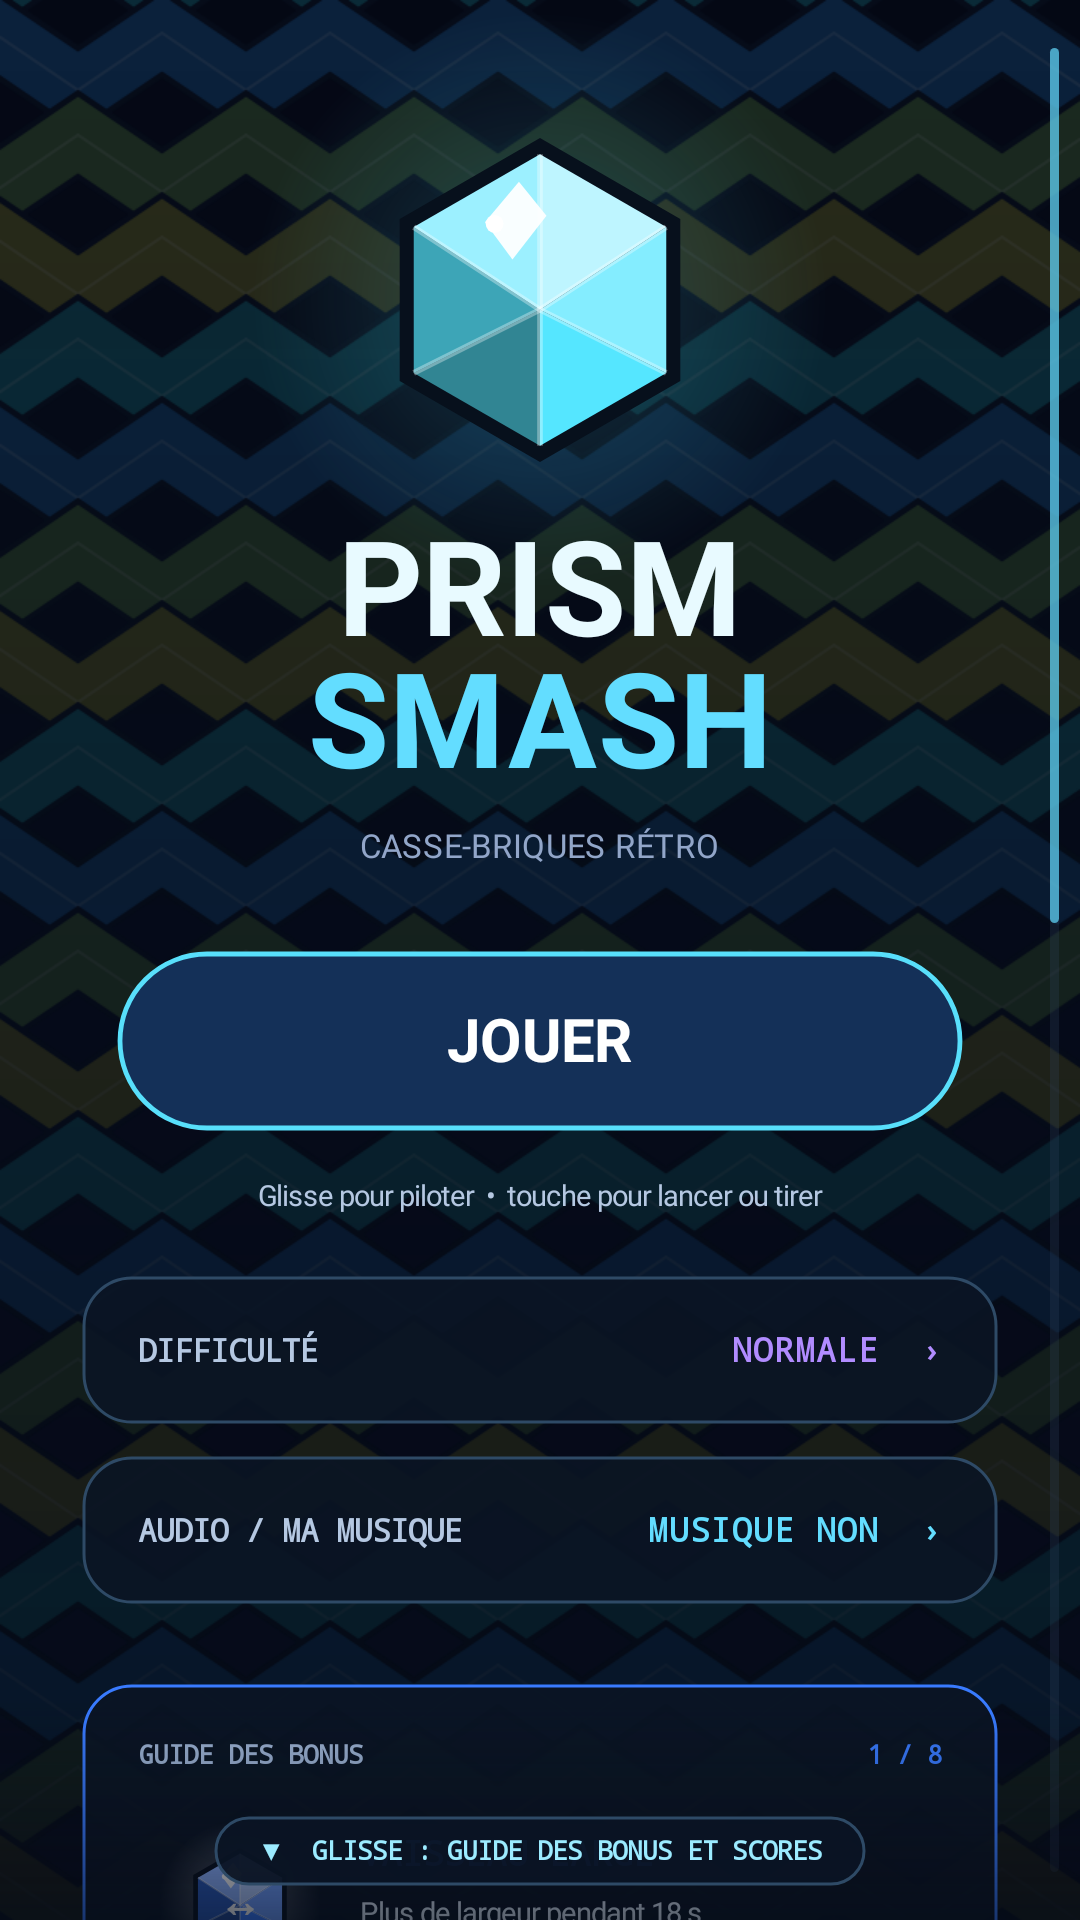
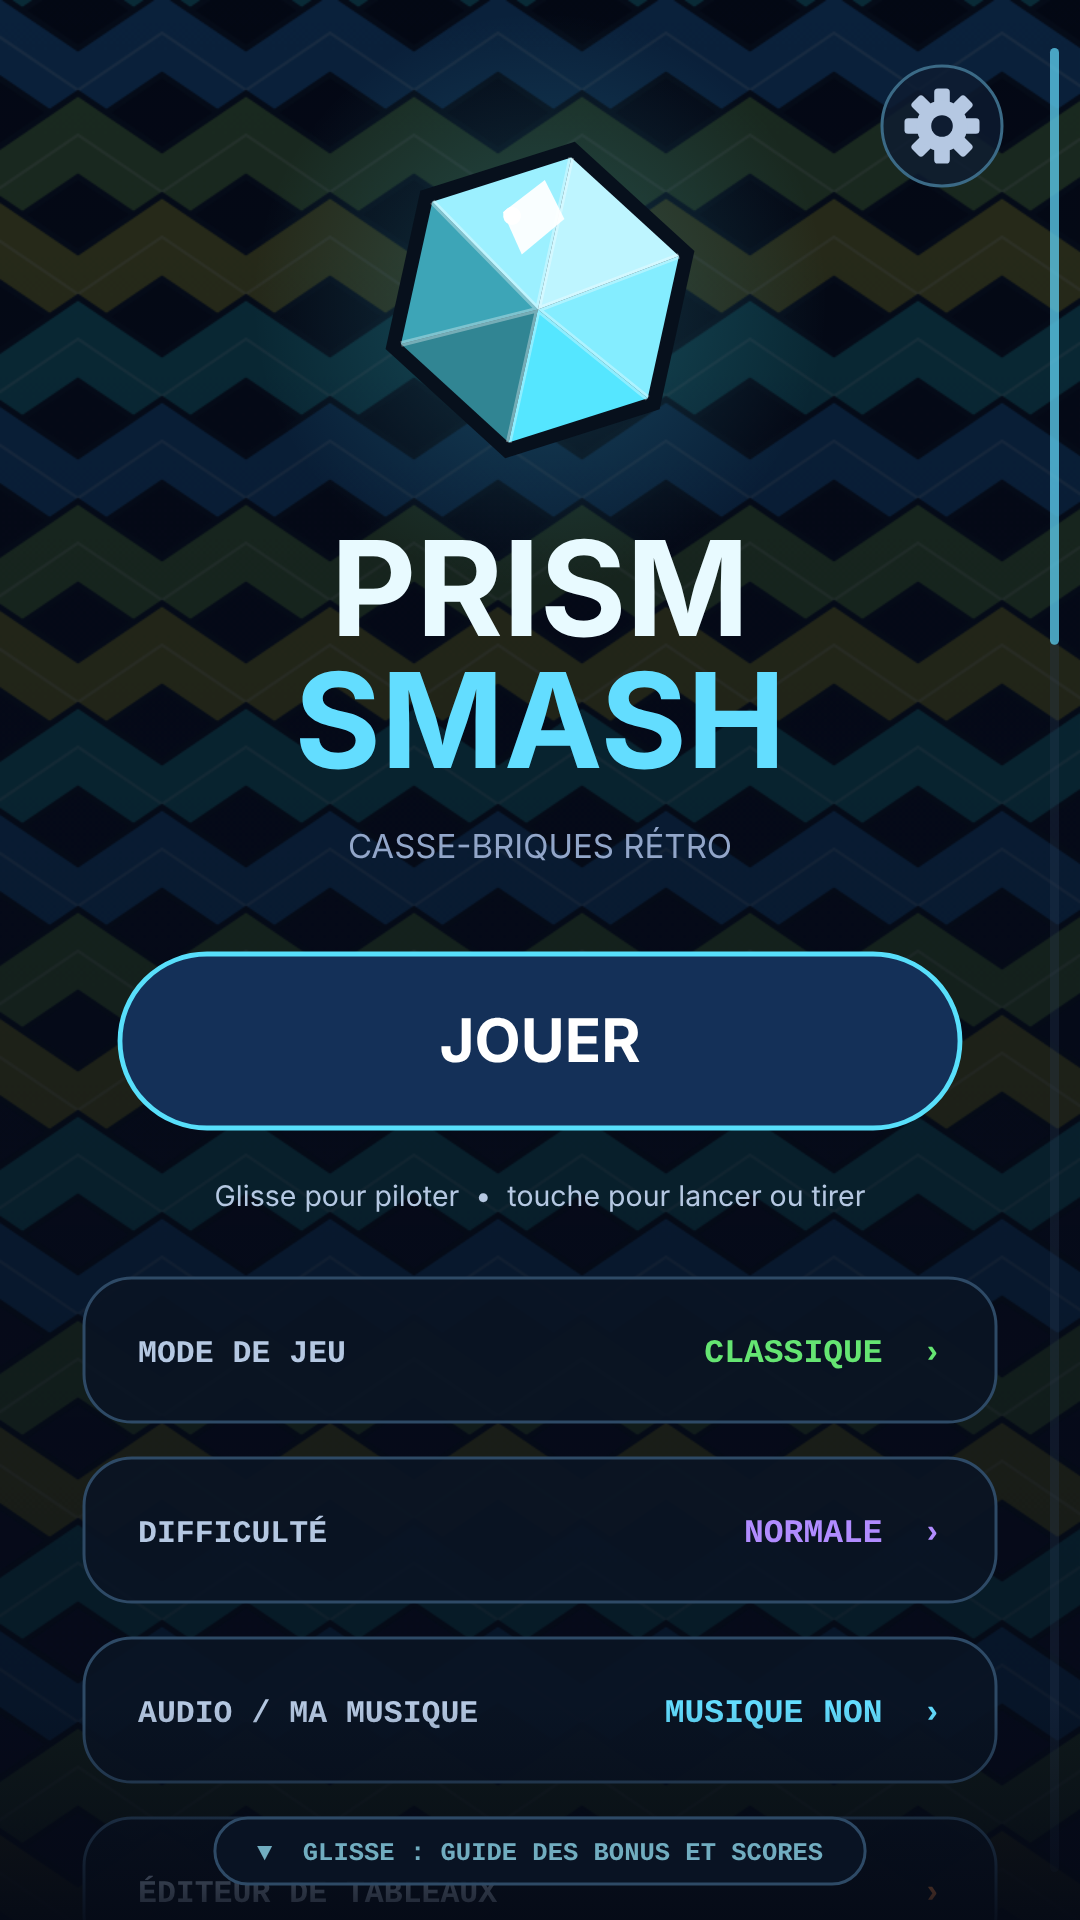
README à jour avec la version 1.23.0
Modes de jeu, boss, Défi du jour, éditeur, 10 bonus, cristaux spéciaux,
succès ; nouvelles captures (accueil, partie, boss, défi, éditeur) et
lien vers la version web.

Claude-Session: https://claude.ai/code/session_01CQEjvfyYVAcCPGWW32pSFk

diff --git a/README.md b/README.md
@@ -2,21 +2,33 @@
 
 # Prism Smash
 
-Casse-briques rétro pour Android : 30 tableaux de prismes à faire voler en éclats, 8 bonus, des vers à abattre ou à écraser, 3 difficultés et un top 20 pour chacune.
+Casse-briques rétro pour Android, de style Amiga : 30 tableaux de prismes à faire voler en éclats, 4 modes de jeu, des boss, un Défi du jour et un éditeur de tableaux.
 
-**[Télécharger la dernière version](https://github.com/Laurent-67370/prism-smash/releases/latest)** (`prism-smash.apk`, Android 6.0 ou plus récent).
+**[Télécharger la dernière version](https://github.com/Laurent-67370/prism-smash/releases/latest)** (`prism-smash.apk`, Android 6.0 ou plus récent). **[Jouer dans le navigateur](https://laurent-67370.github.io/crystal-hammer/)**, sans installation.
 
 <p>
-  <img src="captures/accueil.png" width="240" alt="Accueil">
-  <img src="captures/jeu.png" width="240" alt="Partie">
-  <img src="captures/game.png" width="240" alt="Game (English)">
+  <img src="captures/accueil.png" width="200" alt="Accueil">
+  <img src="captures/jeu.png" width="200" alt="Partie">
+  <img src="captures/boss.png" width="200" alt="Boss">
+  <img src="captures/defi.png" width="200" alt="Défi du jour">
+  <img src="captures/editeur.png" width="200" alt="Éditeur de tableaux">
 </p>
 
-- Pilotage au doigt (glissement, position directe ou zones), manette et clavier.
-- Français et anglais.
+- **4 modes de jeu** : Classique (3 difficultés), Chrono, Survie et Défi du jour, chacun avec son top 20.
+- **Un boss** aux tableaux 10, 20 et 30 du mode Classique.
+- **Défi du jour** : trois tableaux nouveaux chaque jour, les mêmes pour tout le monde, et une série de jours à entretenir 🔥.
+- **Éditeur de tableaux** : dessinez votre mur, jouez-le et partagez-le par un lien.
+- **10 bonus** (vaisseau large, balle lente, collante, multi-balles, laser, balle de feu, bouclier, vie, saut de tableau… et un malus), **cristaux explosifs et trésors**, vers et formes 3D à abattre ou à écraser.
+- **14 succès** et partage du score.
+- Musique originale de style Amiga (« Prism Drive »), ou votre propre musique, y compris les modules `.mod`.
+- Pilotage au doigt (glissement, position directe ou zones), manette et clavier. Français et anglais.
 - Sans publicité, sans achat intégré, sans compte, sans connexion Internet.
 - [Politique de confidentialité](PRIVACY.md) : aucune donnée collectée.
 
 ---
 
-Retro brick breaker for Android: 30 stages of prisms to shatter, 8 power-ups, worms to shoot or squash, 3 difficulty levels with a top 20 each. No ads, no account, no Internet connection, no data collected. **[Download the latest version](https://github.com/Laurent-67370/prism-smash/releases/latest)** · [Privacy policy](PRIVACY.md)
+<img src="captures/game.png" width="200" alt="Game (English)" align="right">
+
+Retro Amiga-style brick breaker for Android: 30 stages of prisms to shatter, 4 game modes (Classic, Time Attack, Survival, Daily Challenge), bosses, a stage editor with shareable links, 10 power-ups, explosive and treasure crystals, 14 achievements and an original Amiga-style soundtrack. No ads, no account, no Internet connection, no data collected.
+
+**[Download the latest version](https://github.com/Laurent-67370/prism-smash/releases/latest)** · **[Play in your browser](https://laurent-67370.github.io/crystal-hammer/)** · [Privacy policy](PRIVACY.md)
